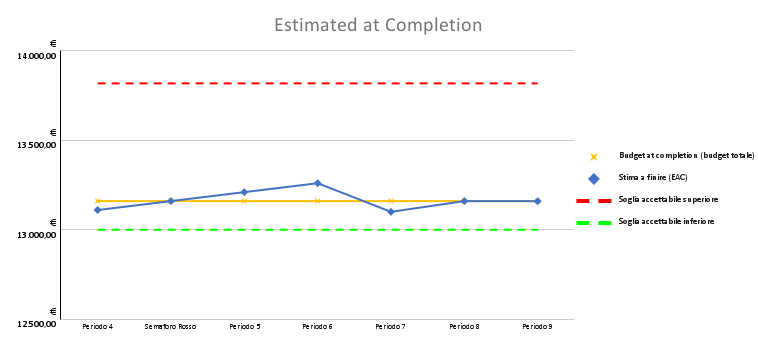
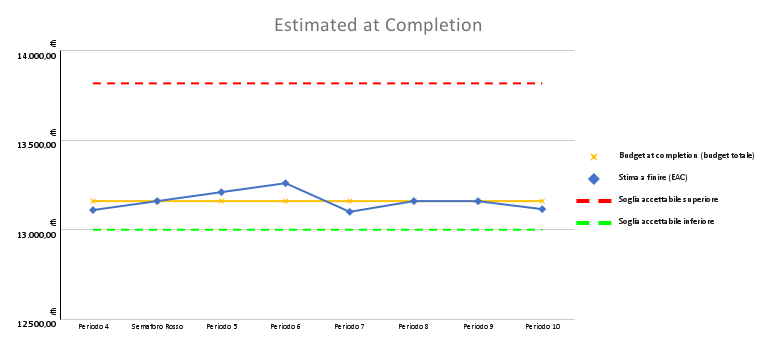
fine consuntivo e aggiornamento cruscotto

diff --git a/src/documenti/esterni/PdP/contenuti/consuntivo.tex b/src/documenti/esterni/PdP/contenuti/consuntivo.tex
@@ -928,15 +928,15 @@ In questo sprint il gruppo è riuscito a portare a termine quasi tutti gli obiet
             \rowcolor[HTML]{036400}
             \textcolor{white}{\textbf{Membro}} & \multicolumn{1}{c|}{\textcolor{white}{\textbf{RE}}} & \multicolumn{1}{c|}{\textcolor{white}{\textbf{AM}}} & \multicolumn{1}{c|}{\textcolor{white}{\textbf{AN}}} & \multicolumn{1}{c|}{\textcolor{white}{\textbf{PT}}} & \multicolumn{1}{c|}{\textcolor{white}{\textbf{PR}}} & \multicolumn{1}{c|}{\textcolor{white}{\textbf{VE}}} & \multicolumn{1}{c|}{\textcolor{white}{\textbf{Totale ore persona}}} \\ \hline
             \rowcolor[HTML]{EFEFEF}\textit{Marco Mazzucato}  & -         & -        & -          & -        & 3 (-2)       & 3 (+2)           & 6    \\ \hline
-            \rowcolor[HTML]{C0C0C0}\textit{Marco Mamprin}    & -         & -          & -          & ???      & ???  & ???         & ???          \\ \hline
+            \rowcolor[HTML]{C0C0C0}\textit{Marco Mamprin}    & -         & 0.5          & -          & 0 (-1)      & -  & 0.5 (-1.5)         & 1 (-2.5)          \\ \hline
             \rowcolor[HTML]{EFEFEF}\textit{Marko Vukovic}    & -         & -          & -          & -        & -       & -           & -           \\ \hline
-            \rowcolor[HTML]{C0C0C0}\textit{Mattia Zanellato} & 4         & -        & -          & -        & -       & 1 (-1)           & 5      \\ \hline
-            \rowcolor[HTML]{EFEFEF}\textit{Emanuele Pase}    & -         & -          & -          & -        & 2.5 (+1)  & 2 (-0.5)    & 4.5 (-0.5)      \\ \hline
+            \rowcolor[HTML]{C0C0C0}\textit{Mattia Zanellato} & 4         & -        & -          & -        & -       & 1 (-1)           & 5 (-1)      \\ \hline
+            \rowcolor[HTML]{EFEFEF}\textit{Emanuele Pase}    & -         & -          & -          & -        & 2.5   & 2 (-0.5)    & 4.5 (-0.5)      \\ \hline
             \rowcolor[HTML]{C0C0C0}\textit{Riccardo Contin}  & -         & -          & -          & -        & 1     & 0 (-2)           & 1 (-2)          \\ \hline
             \rowcolor[HTML]{EFEFEF}\textit{Lorenzo Onelia}   & -         & -          & -          & -        & 2.5       & 2.5       & 5        \\ \hline
-            \rowcolor[HTML]{C0C0C0}\textbf{Totale ore ruolo} & ?         & ?          & -          & ? & ? & ? & ?  \\ \hline
+            \rowcolor[HTML]{C0C0C0}\textbf{Totale ore ruolo} & 4         & 0.5          & -          & 0 (-1) & 9 (-2) & 9 (-3) & 22.5 (-6)  \\ \hline
         \end{tabular}
-    \caption{Distribuzione delle ore per la nona milestone}
+    \caption{Distribuzione delle ore per la decima milestone}
 \end{table}
 
 \begin{table}[H]
@@ -946,16 +946,16 @@ In questo sprint il gruppo è riuscito a portare a termine quasi tutti gli obiet
     \hline
     \rowcolor[HTML]{036400}
     \textcolor{white}{\textbf{Membro}} & \multicolumn{1}{c|}{\textcolor{white}{\textbf{RE}}} & \multicolumn{1}{c|}{\textcolor{white}{\textbf{AM}}} & \multicolumn{1}{c|}{\textcolor{white}{\textbf{AN}}} & \multicolumn{1}{c|}{\textcolor{white}{\textbf{PT}}} & \multicolumn{1}{c|}{\textcolor{white}{\textbf{PR}}} & \multicolumn{1}{c|}{\textcolor{white}{\textbf{VE}}} & \multicolumn{1}{c|}{\textcolor{white}{\textbf{Totale ore persona}}} \\ \hline
-    \rowcolor[HTML]{EFEFEF}\textit{Marco Mazzucato}  & 0    & 0    & 0     & 0     & 4   & 7      & 11   \\ \hline
-    \rowcolor[HTML]{C0C0C0}\textit{Marco Mamprin}    & 6    & 1    & 0     & 2     & 1   & 3      & 13   \\ \hline
+    \rowcolor[HTML]{EFEFEF}\textit{Marco Mazzucato}  & 0    & 0    & 0     & 0     & 1   & 4      & 5   \\ \hline
+    \rowcolor[HTML]{C0C0C0}\textit{Marco Mamprin}    & 6    & 0.5    & 0     & 2     & 1   & 2.5      & 12   \\ \hline
     \rowcolor[HTML]{EFEFEF}\textit{Marko Vukovic}    & 0    & 0    & 0     & 0     & 0   & 0      & 0    \\ \hline
-    \rowcolor[HTML]{C0C0C0}\textit{Mattia Zanellato} & 4    & 0    & 0     & 0     & 4   & 6      & 14   \\ \hline
-    \rowcolor[HTML]{EFEFEF}\textit{Emanuele Pase}    & 0    & 0    & 0     & 0     & 4   & 6.5    & 10.5 \\ \hline
-    \rowcolor[HTML]{C0C0C0}\textit{Riccardo Contin}  & 0    & 0    & 0     & 0     & 6   & 7      & 13   \\ \hline
-    \rowcolor[HTML]{EFEFEF}\textit{Lorenzo Onelia}   & 4.5  & 0    & 0     & 0     & 5   & 5      & 14.5 \\ \hline
-    \rowcolor[HTML]{C0C0C0}\textbf{Totale ore ruolo} & 14.5 & 1    & 0     & 2     & 24  & 34.5   & 76   \\ \hline
+    \rowcolor[HTML]{C0C0C0}\textit{Mattia Zanellato} & 0    & 0    & 0     & 0     & 4   & 5      & 9   \\ \hline
+    \rowcolor[HTML]{EFEFEF}\textit{Emanuele Pase}    & 0    & 0    & 0     & 0     & 1.5   & 4.5    & 6 \\ \hline
+    \rowcolor[HTML]{C0C0C0}\textit{Riccardo Contin}  & 0    & 0    & 0     & 0     & 5   & 7      & 12   \\ \hline
+    \rowcolor[HTML]{EFEFEF}\textit{Lorenzo Onelia}   & 4.5  & 0    & 0     & 0     & 2.5   & 2.5      & 9.5 \\ \hline
+    \rowcolor[HTML]{C0C0C0}\textbf{Totale ore ruolo} & 10.5 & 0.5    & 0     & 2     & 15  & 25.5   & 53.5   \\ \hline
     \end{tabular}
-    \caption{Ore rimaste dopo la nona milestone}
+    \caption{Ore rimaste dopo la decima milestone}
 \end{table}
 
 \subsubsection{Consuntivo economico}
@@ -967,17 +967,17 @@ In questo sprint il gruppo è riuscito a portare a termine quasi tutti gli obiet
     \hline
     \rowcolor[HTML]{036400}
     \textcolor{white}{\textbf{Ruolo}} & \multicolumn{1}{l|}{\textcolor{white}{\textbf{Ore}}} & \multicolumn{1}{l|}{\textcolor{white}{\textbf{Costo (€)}}} \\ \hline
-    \rowcolor[HTML]{EFEFEF}\textit{Responsabile}      & 5           & 150             \\ \hline
-    \rowcolor[HTML]{C0C0C0}\textit{Amministratore}    & 1           & 20              \\ \hline
+    \rowcolor[HTML]{EFEFEF}\textit{Responsabile}      & 4           & 120             \\ \hline
+    \rowcolor[HTML]{C0C0C0}\textit{Amministratore}    & 0.5           & 10              \\ \hline
     \rowcolor[HTML]{EFEFEF}\textit{Analista}          & -           & -               \\ \hline
-    \rowcolor[HTML]{C0C0C0}\textit{Progettista}       & 5.5 (+1)    & 137.5 (+25)     \\ \hline
-    \rowcolor[HTML]{EFEFEF}\textit{Programmatore}     & 31 (+5)     & 465 (+75)       \\ \hline
-    \rowcolor[HTML]{C0C0C0}\textit{Verificatore}      & 19.5 (-2.5) & 292.5 (-37.5)   \\ \hline
-    \rowcolor[HTML]{EFEFEF}\textbf{Totale Preventivo} & 58.5        & 1002.5          \\ \hline
-    \rowcolor[HTML]{C0C0C0}\textbf{Totale Consuntivo} & 62          & 1065            \\ \hline
-    \rowcolor[HTML]{EFEFEF}\textbf{Differenza}        & +3.5        & +62.5            \\ \hline
+    \rowcolor[HTML]{C0C0C0}\textit{Progettista}       & 0 (-1)    & 0 (-25)     \\ \hline
+    \rowcolor[HTML]{EFEFEF}\textit{Programmatore}     & 9 (-2)     & 135 (-30)       \\ \hline
+    \rowcolor[HTML]{C0C0C0}\textit{Verificatore}      & 9 (-3) & 135 (-45)   \\ \hline
+    \rowcolor[HTML]{EFEFEF}\textbf{Totale Preventivo} & 28.5        & 500          \\ \hline
+    \rowcolor[HTML]{C0C0C0}\textbf{Totale Consuntivo} & 22.5          & 400            \\ \hline
+    \rowcolor[HTML]{EFEFEF}\textbf{Differenza}        & -6        & -100            \\ \hline
     \end{tabular}
-    \caption{Consuntivo dei costi per la nona milestone}
+    \caption{Consuntivo dei costi per la decima milestone}
 \end{table}
 
 \subsubsection{Preventivo economico a finire}
@@ -989,13 +989,13 @@ In questo sprint il gruppo è riuscito a portare a termine quasi tutti gli obiet
     \hline
     \rowcolor[HTML]{036400}
     \textcolor{white}{\textbf{Ruolo}} & \multicolumn{1}{l|}{\textcolor{white}{\textbf{Ore}}} & \multicolumn{1}{l|}{\textcolor{white}{\textbf{Costo (€)}}} \\ \hline
-    \rowcolor[HTML]{EFEFEF}\textit{Responsabile}      & 14.5         & 435               \\ \hline
-    \rowcolor[HTML]{C0C0C0}\textit{Amministratore}    & 1            & 20                \\ \hline
+    \rowcolor[HTML]{EFEFEF}\textit{Responsabile}      & 10.5         & 315               \\ \hline
+    \rowcolor[HTML]{C0C0C0}\textit{Amministratore}    & 0.5          & 10                \\ \hline
     \rowcolor[HTML]{EFEFEF}\textit{Analista}          & 0            & 0                 \\ \hline
     \rowcolor[HTML]{C0C0C0}\textit{Progettista}       & 2            & 50                \\ \hline
-    \rowcolor[HTML]{EFEFEF}\textit{Programmatore}     & 24           & 360               \\ \hline
-    \rowcolor[HTML]{C0C0C0}\textit{Verificatore}      & 34.5         & 517.5             \\ \hline
-    \rowcolor[HTML]{EFEFEF}\textbf{Totale Preventivo} & 76           & 1382.5            \\ \hline
+    \rowcolor[HTML]{EFEFEF}\textit{Programmatore}     & 15           & 225               \\ \hline
+    \rowcolor[HTML]{C0C0C0}\textit{Verificatore}      & 25.5         & 337.5             \\ \hline
+    \rowcolor[HTML]{EFEFEF}\textbf{Totale Preventivo} & 53.5         & 937.5            \\ \hline
     \end{tabular}
     \caption{Preventivo economico a finire}
 \end{table}
@@ -1003,17 +1003,14 @@ In questo sprint il gruppo è riuscito a portare a termine quasi tutti gli obiet
 \subsubsection{Obiettivi}
 Gli obiettivi raggiunti dal gruppo durante questo periodo sono:
 \begin{itemize}
-    \item Aggiungere i drawer per lo Scatter Plot 2, per il Parallel Coordinates e per il Sankey Diagram;
-    \item Ultimare Specifica Architetturale;
-    \item Effettuare nuovi test d'unità;
-    \item Aggiornare il Cruscotto;
-    \item Incontrare il proponente.
-\end{itemize}
-Gli obiettivi non raggiunti dal gruppo durante questo periodo sono:
-\begin{itemize}
-    \item Aggiungere il drawer per il Force Directed;
-    \item Aggiornare \textit{Norme di Progetto} e \textit{Analisi dei requisiti}.
+    \item Ultimato il documento \textit{Specifica Architetturale};
+    \item Redatto la \textit{Lettera di Presentazione} per la PB;
+    \item Redatto il \textit{Manuale Utente};
+    \item Aggiornate le \textit{Norme di Progetto};
+    \item Aggiornata l'\textit{Analisi dei Requisiti};
+    \item Aggiornato il Cruscotto;
+    \item Approvata la documentazione e il prodotto per la revisione PB.
 \end{itemize}
 
 \subsubsection{Conclusioni}
-In questo sprint il gruppo è riuscito a portare a termine quasi tutti gli obiettivi incontrando, però, diverse difficoltà nella realizzazione del drawer per il Force Directed che per questo motivo non è stato ultimato. La divisione è risultata efficace e il gruppo ritiene che il prodotto sia pronto per essere presentato a revisione.
+Questo sprint è stato utilizzato dal gruppo per terminare ed organizzare al meglio la documentazione e il prodotto richiesti durante la revisione PB. Non sono state trovate particolari difficoltà grazie ad un'adeguata divisione dei compiti che ha portato al raggiungimento di tutti gli obiettivi prefissati.

diff --git a/src/documenti/esterni/PdQ/contenuti/modifiche.tex b/src/documenti/esterni/PdQ/contenuti/modifiche.tex
@@ -7,8 +7,10 @@
   \hline
   \rowcolor[HTML]{036400}
   \textcolor[HTML]{FFFFFF}{\textbf{Versione}} & \textcolor[HTML]{FFFFFF}{\textbf{Data}} & \textcolor[HTML]{FFFFFF}{\textbf{Autore}}  & \textcolor[HTML]{FFFFFF}{\textbf{Verificatore}} & \textcolor[HTML]{FFFFFF}{\textbf{Modifica}}    \\ \hline
+  \rowcolor[HTML]{C0C0C0}
+  v2.0.0        & 04/05/2022  & Mattia Zanellato  &   -     & Approvazione                 \\ \hline
   \rowcolor[HTML]{EFEFEF}
-  v2.0.0        & 29/04/2022  & Mattia Zanellato  &   -     & Approvazione                 \\ \hline
+  v1.0.8        & 04/05/2022    & Mattia Zanellato    &  -    & Modifiche sezione "Resoconto attività di verifica"            \\ \hline
   \rowcolor[HTML]{C0C0C0}
   v1.0.7        & 28/04/2022    & Emanuele Pase    &  Marco Mazzucato    & Modifiche sezione "Valutazioni per il Miglioramento"            \\ \hline
   \rowcolor[HTML]{EFEFEF}

diff --git a/src/documenti/esterni/PdQ/contenuti/listaDistribuzione.tex b/src/documenti/esterni/PdQ/contenuti/listaDistribuzione.tex
@@ -4,7 +4,7 @@
 		\hline
 		\textbf{Versione}			& V2.0.0 \\
 		\textbf{Uso}		& Esterno \\
-		\textbf{Data approvazione} 			& 29/04/2022 \\
+		\textbf{Data approvazione} 			& 04/05/2022 \\
 		\textbf{Distribuzione} 	&	Prof.\textit{Vardanega Tullio} \newline Prof.\textit{Cardin Riccardo} \newline \textit{Zucchetti S.p.A.} \newline Gruppo \textit{MERL} \\
 	\end{tabular}
 \end{center}

diff --git a/src/documenti/esterni/PdQ/contenuti/resoconto.tex b/src/documenti/esterni/PdQ/contenuti/resoconto.tex
@@ -1,6 +1,6 @@
 \chapter{Resoconto attività di verifica}
 
-\section{Metriche fino allo Sprint 8}
+\section{Metriche fino allo Sprint 10}
 
   \subsection{Verifica documenti}
     \subsubsection{Indice di Gulpease}
